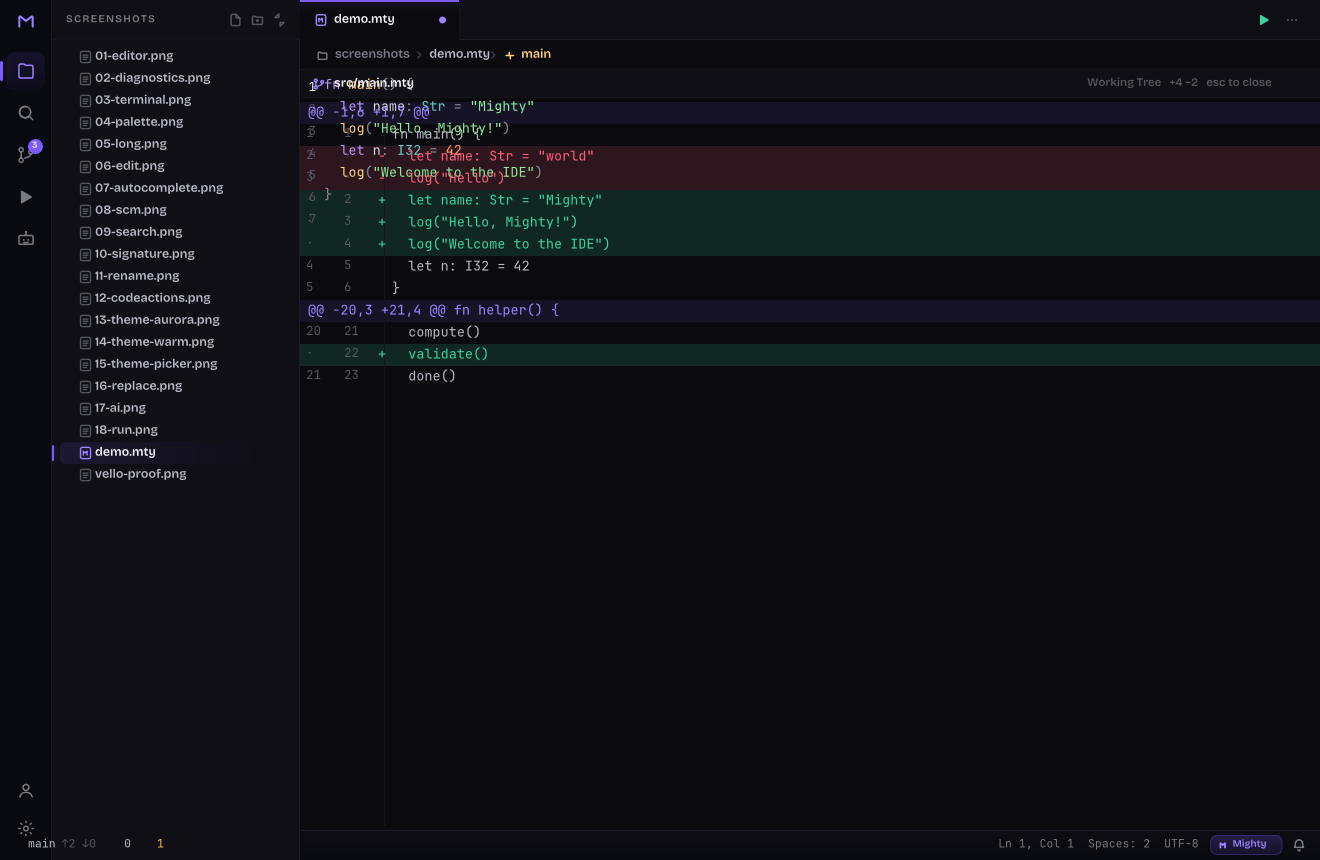
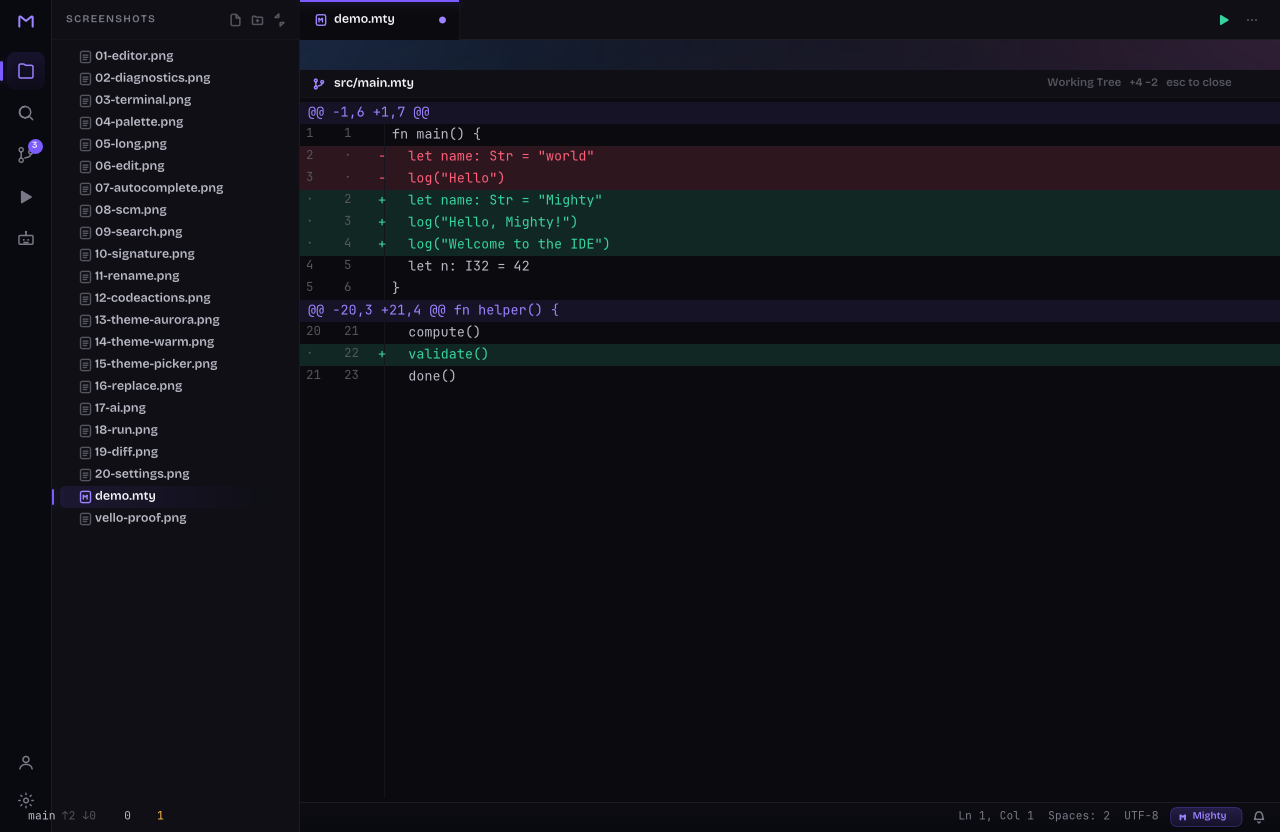
Visual polish: suppress breadcrumb under diff view, clean line-1 band
- Suppress the breadcrumb while the inline-diff view is active (it shared the
  diff header band and faintly rendered over it).
- mui_ed_draw now no-ops while the diff view is active so the editor body text
  no longer composites through the diff's opaque field background (glyphs are
  drawn in one pass after rects, so call order alone didn't hide it).
- Clamp the current-line highlight band to the editor field top so its 1px
  optical-centering nudge on row 0 no longer bleeds into the breadcrumb divider.
- Re-captured 01-editor.png and 19-diff.png.

diff --git a/crates/mighty-ui-sys/src/abi.rs b/crates/mighty-ui-sys/src/abi.rs
@@ -4524,6 +4524,13 @@ pub extern "C" fn mui_ed_draw(handle: i64, rows: i32) {
     let Some(ctx) = (unsafe { ctx(handle) }) else {
         return;
     };
+    // The inline-diff view owns the entire editor body region when active. Glyphs
+    // are composited in a single pass after all rects, so the editor's body text
+    // would otherwise show THROUGH the diff's opaque field background. Skip the
+    // editor body draw entirely while the diff is up.
+    if ctx.diff.is_active() {
+        return;
+    }
     let region = layout::region(ctx.sidebar_visible);
     let clip = ctx.clip;
     let handle_ptr = handle as usize as *mut MuiContext;
@@ -4588,8 +4595,13 @@ pub extern "C" fn mui_ed_draw(handle: i64, rows: i32) {
         let row = (cur_line - first) as i32;
         let y = layout::row_y_in(region, row);
         let band_w = mm_x - region.left;
-        ctx.dl_grad_h(region.left, y - 1.0, band_w, layout::LINE_H(), 0.0, theme::accent_a(0.07), 0.6);
-        ctx.dl_rect(region.left, y - 1.0, 2.0, layout::LINE_H(), theme::ACCENT());
+        // Nudge the band up 1px for optical centering on the glyph baseline, but
+        // never above the editor field top — on row 0 that 1px would bleed into
+        // the breadcrumb divider and show as a thin artifact at the very top.
+        let band_top = (y - 1.0).max(region.top);
+        let band_h = layout::LINE_H() - (band_top - (y - 1.0));
+        ctx.dl_grad_h(region.left, band_top, band_w, band_h, 0.0, theme::accent_a(0.07), 0.6);
+        ctx.dl_rect(region.left, band_top, 2.0, band_h, theme::ACCENT());
     }
 
     // 2) Selection rects (per visible line within the range).